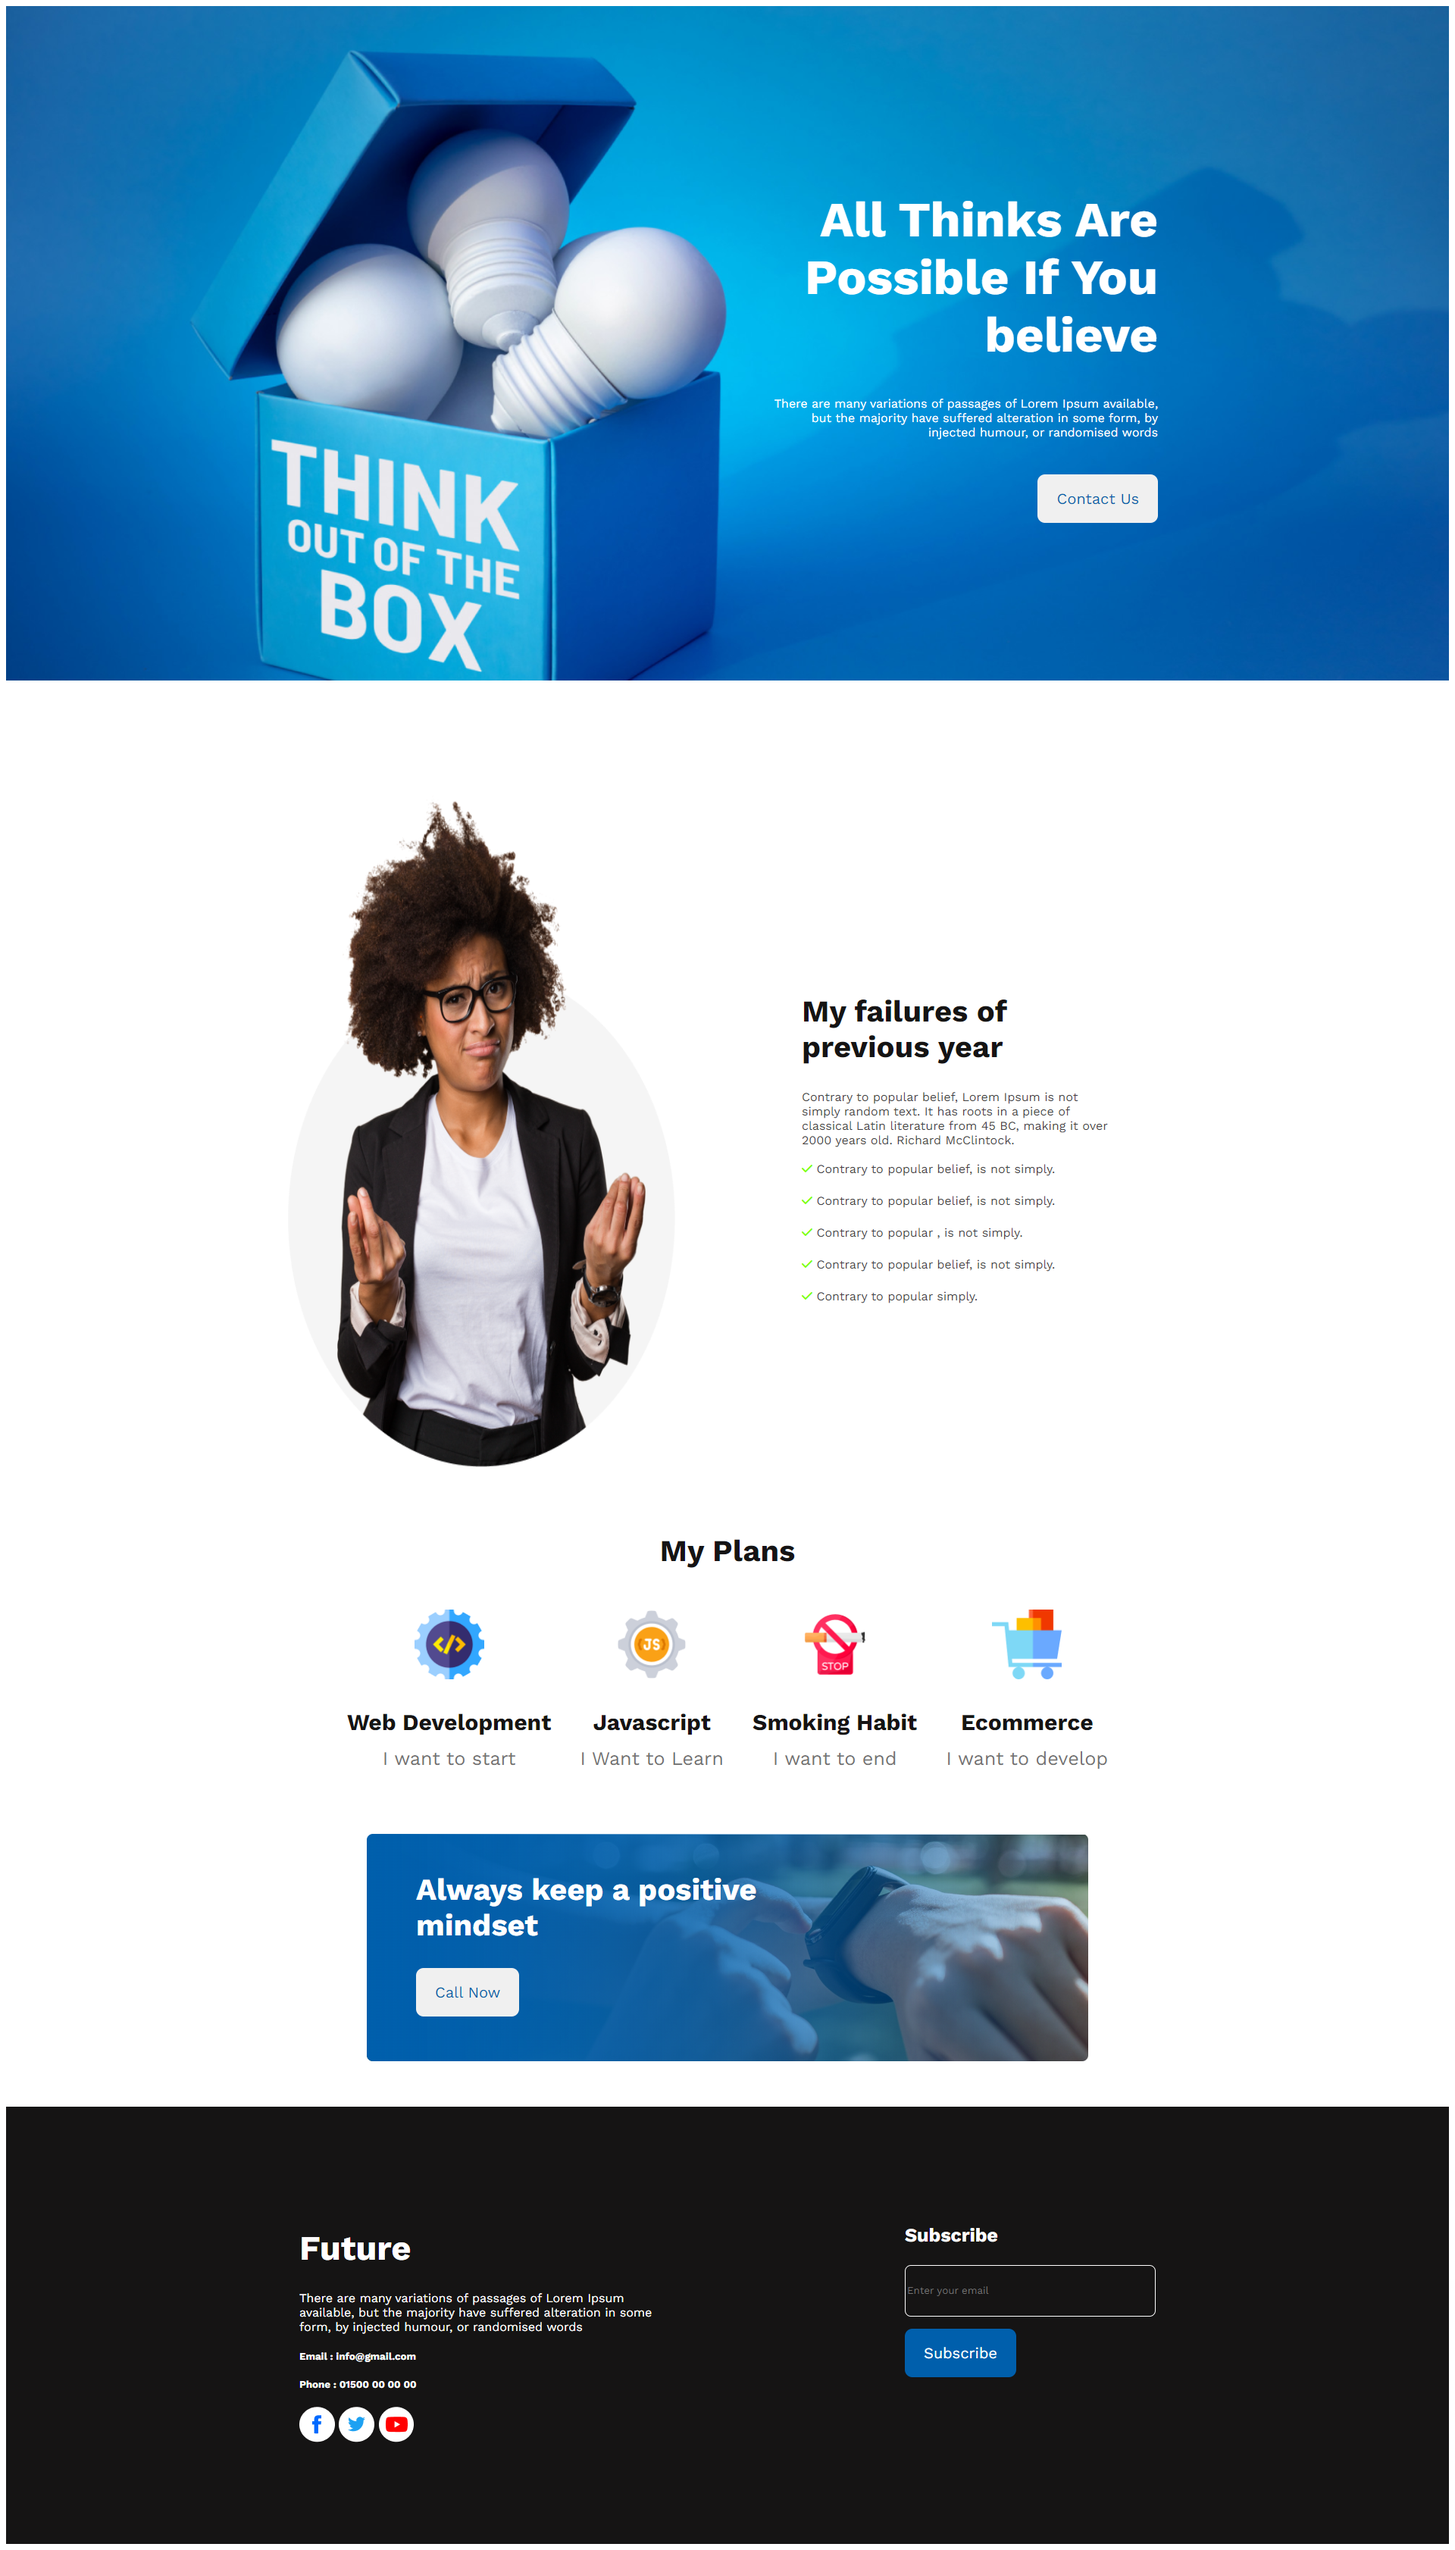
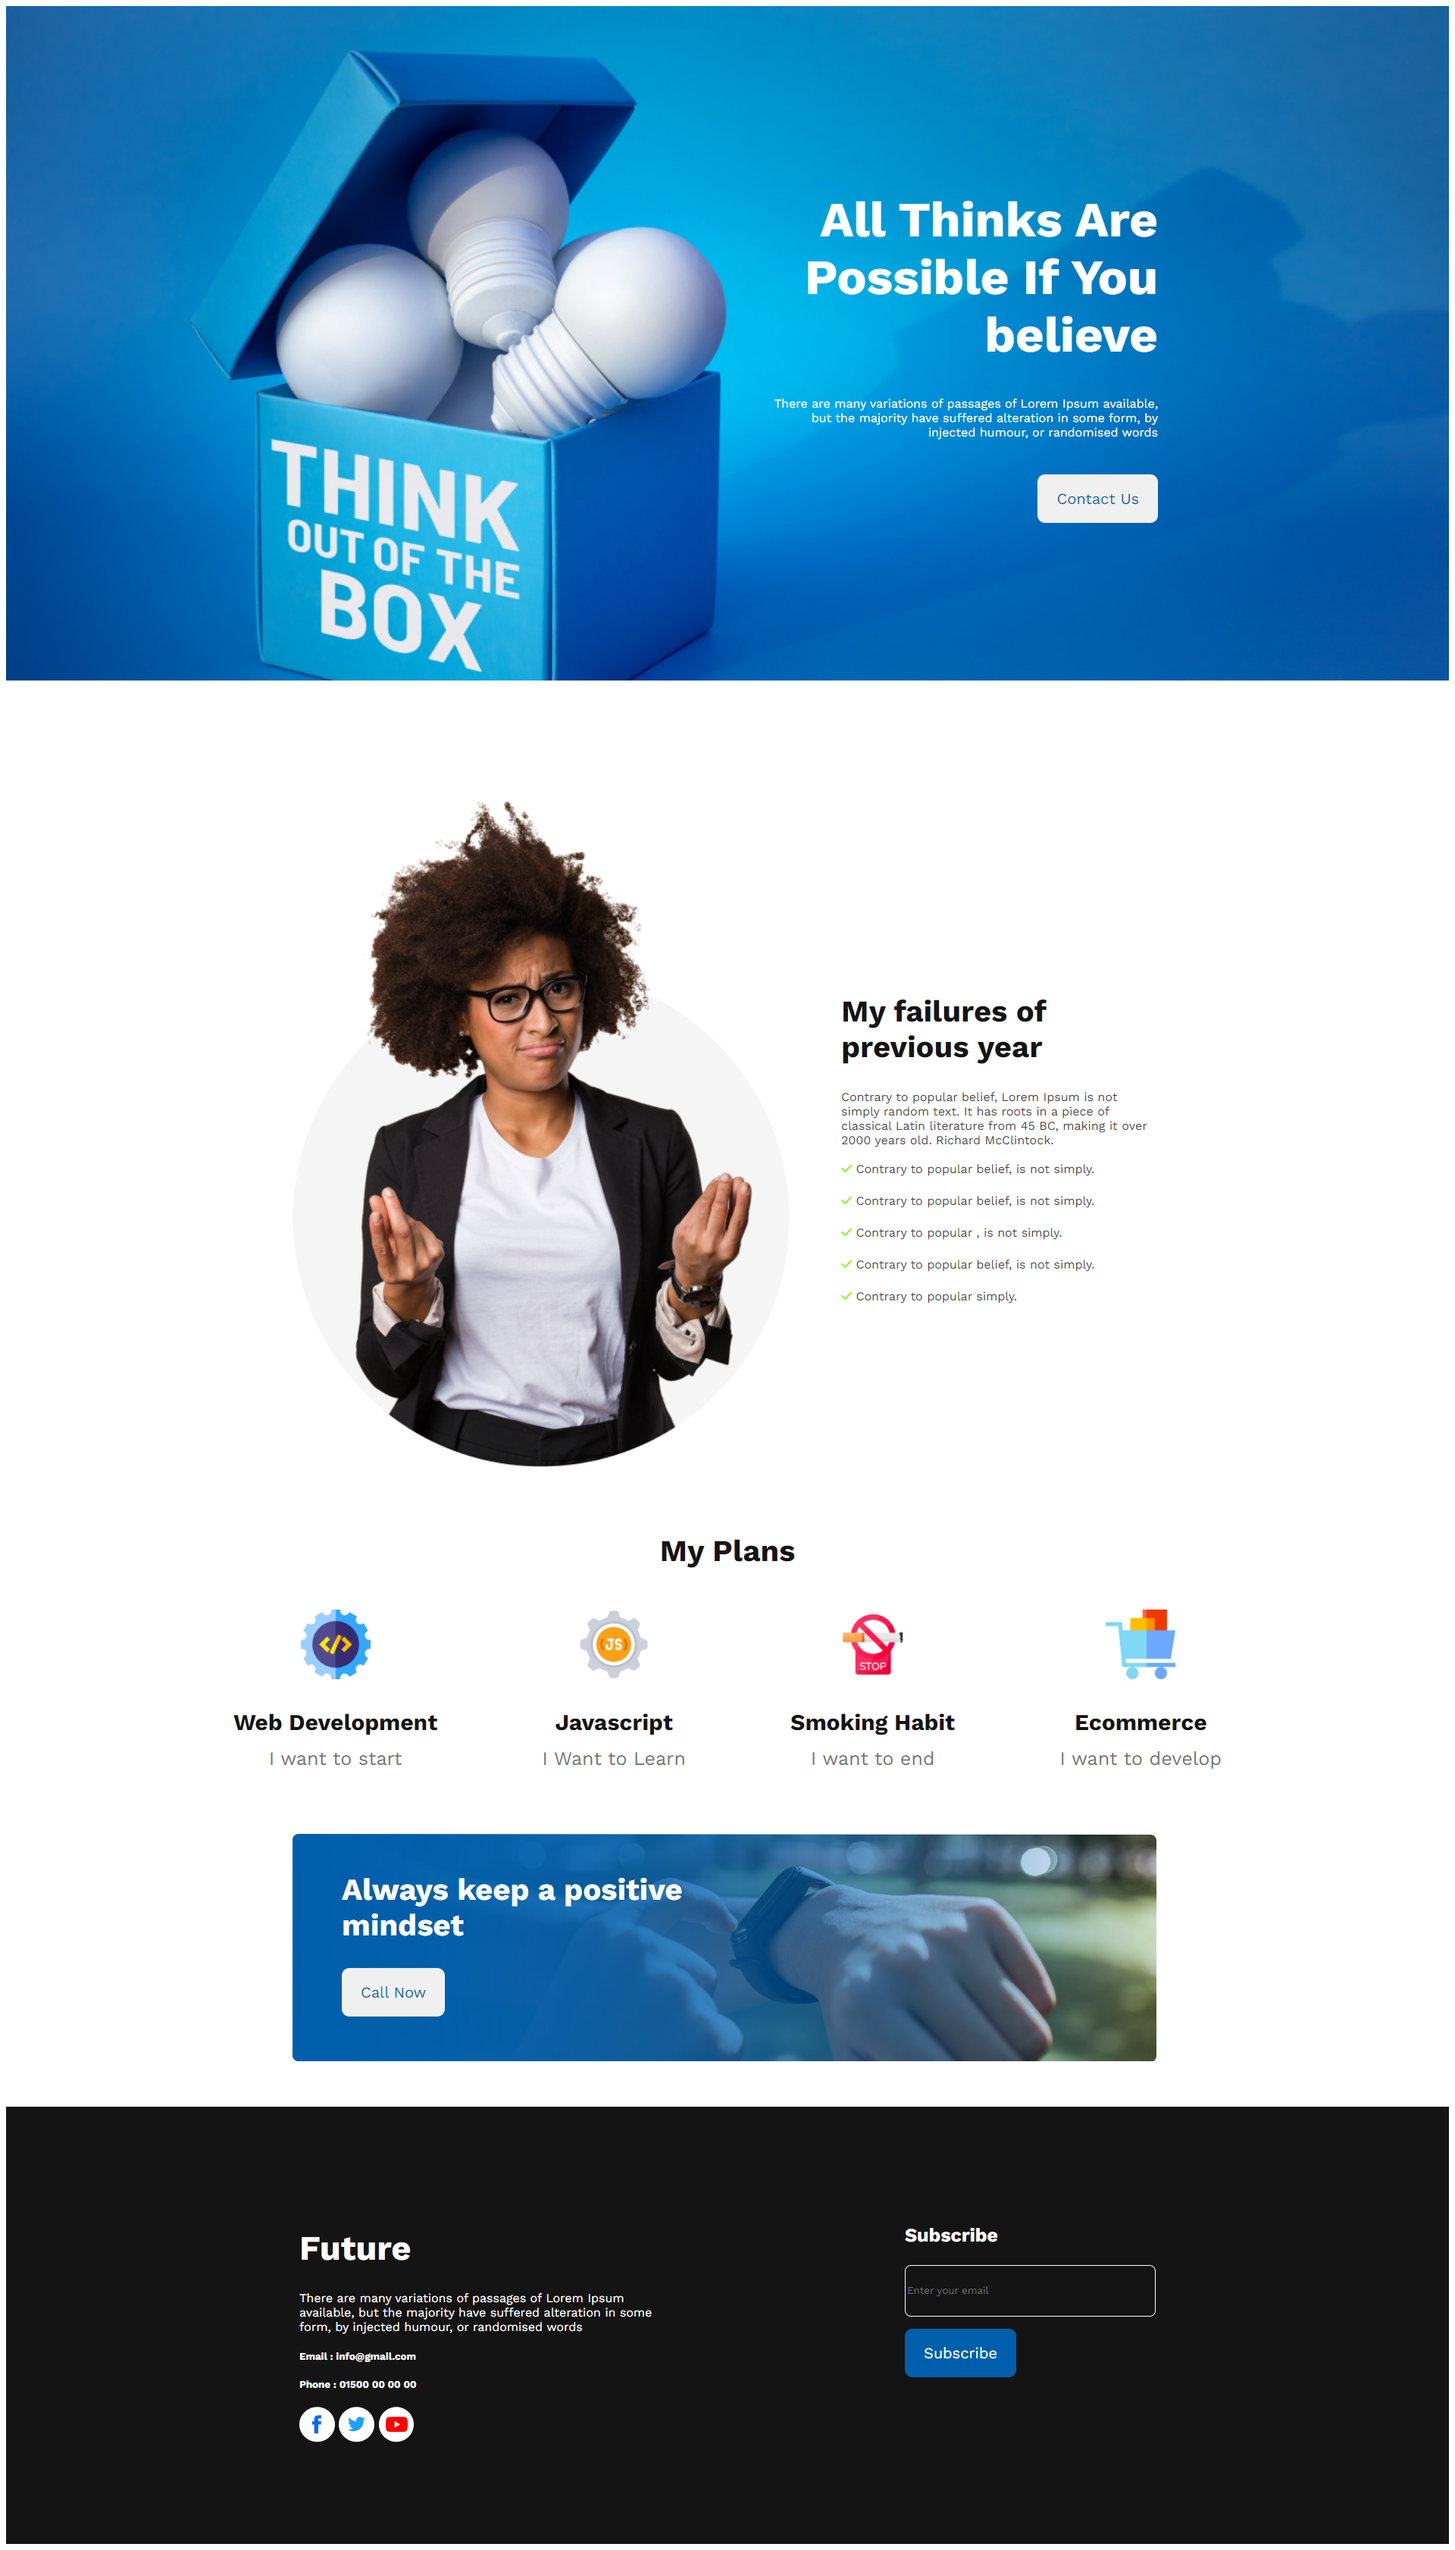
updated few items

diff --git a/style.css b/style.css
@@ -70,7 +70,7 @@ header {
 }
 
 .second_content_image img {
-    width: 550px;
+    /* width: 550px; */
     height: 898px;
     margin: 140px 0 50px 350px;
 }
@@ -112,13 +112,8 @@ header {
 .plans_content {
     display: flex;
     justify-content: space-between;
-    /* gap: 100px; */
     text-align: center;
-    /* gap: 100px; */
-    /* display: block; */
-    margin: 0 450px;
-    /* padding: 25px 25px; */
-    /* width: 50%; */
+    margin: 0 300px;
 }
 
 .plans_content img {
@@ -151,7 +146,7 @@ header {
     /* display: block; */
     /* margin-left: auto;
     margin-right: auto; */
-    width: 50%;
+    width: 1148px;
     margin: 60px auto;
     border-radius: 8px;
 }
@@ -159,9 +154,10 @@ header {
 .time_caption {
 
     /* padding: 59px auto 0 65px; */
-
     background-image: linear-gradient(90deg, #005FAC 0%, rgba(241, 91, 34, 0.00)100%), url('images/gradient1.png');
     height: 300px;
+    width: 1148px;
+    background-repeat: no-repeat;
     border-radius: 8px;
 
 }
